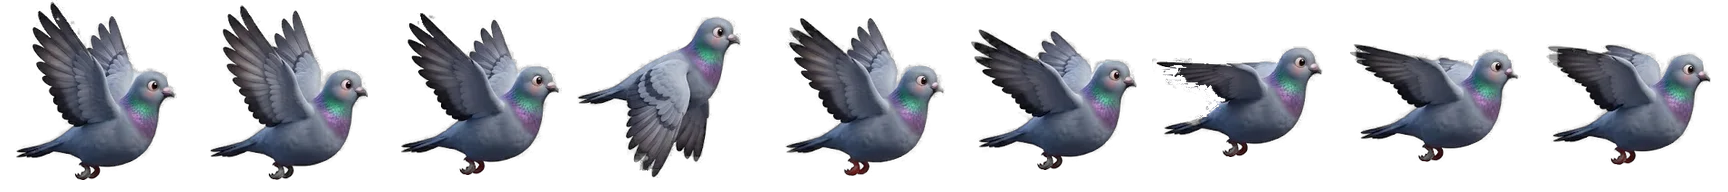
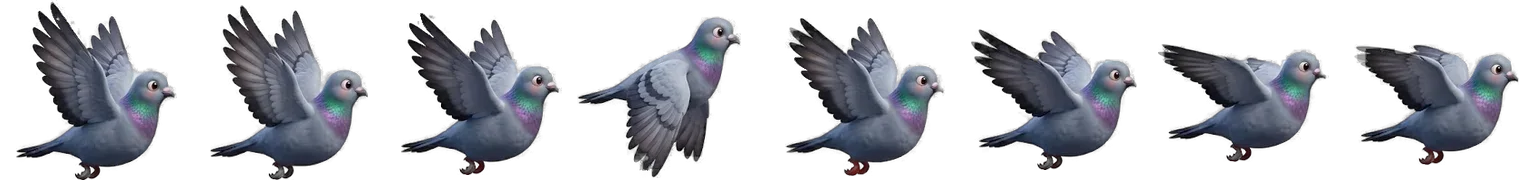
fix(art): выброшены бракованные кадры полёта (sizar/ryaboy/svadebny), fly v=2
Артефакты генерации (белые рваные перья/шип/каша на крыле) — по 1 кадру на
породу, проверено контактным листом. В fly-slice.py дроп-лист на будущие
пересборки. catdrag.js v=4.

diff --git a/public/game.html b/public/game.html
@@ -18,7 +18,7 @@
   <link rel="preload" as="script" href="/js/catclick.js?v=121"/>
   <link rel="preload" as="script" href="/js/catpet.js?v=18"/>
   <link rel="preload" as="script" href="/js/catdove.js?v=8"/>
-  <link rel="preload" as="script" href="/js/catdrag.js?v=3"/>
+  <link rel="preload" as="script" href="/js/catdrag.js?v=4"/>
   <script src="https://telegram.org/js/telegram-web-app.js" defer></script>
   <script src="/js/utils.js" defer></script>
   <script src="/js/tg-bridge.js" defer></script>
@@ -48,7 +48,7 @@ setTimeout(function () {
 <script src="/js/catfeed.js?v=3" defer></script>
 <script src="/js/catpet.js?v=18" defer></script>
 <script src="/js/catdove.js?v=8" defer></script>
-<script src="/js/catdrag.js?v=3" defer></script>
+<script src="/js/catdrag.js?v=4" defer></script>
 <script src="/js/catclick.js?v=121" defer></script>
 </body>
 </html>

diff --git a/public/index.html b/public/index.html
@@ -1306,7 +1306,7 @@
 <script src="/js/catpet.js?v=18" defer></script>
 <script src="/js/catlive.js" defer></script>
 <script src="/js/catdove.js?v=8" defer></script>
-<script src="/js/catdrag.js?v=3" defer></script>
+<script src="/js/catdrag.js?v=4" defer></script>
 <script src="/js/catclick.js?v=121" defer></script>
 <!-- /js/bakery.js удалён — Игры убраны до новой геймификации (см. game.js — wheel/streak/secret) -->
 <script src="/js/chat.js" defer></script>

diff --git a/public/js/catdrag.js b/public/js/catdrag.js
@@ -107,7 +107,7 @@
     rec = { img, ok: null, frames: 0 };
     img.onload = () => { rec.frames = Math.max(1, Math.round(img.width / img.height)); rec.ok = rec.frames >= 2; };
     img.onerror = () => { rec.ok = false; };
-    img.src = `/img/pigeons/fly/${encodeURIComponent(breed)}.webp?v=1`;
+    img.src = `/img/pigeons/fly/${encodeURIComponent(breed)}.webp?v=2`;
     flyCache[breed] = rec;
     return rec;
   }

diff --git a/scripts/pigeon-art/fly-slice.py b/scripts/pigeon-art/fly-slice.py
@@ -83,6 +83,10 @@ for fp in sorted(glob.glob(os.path.join(SRC, "*.png"))):
         print(breed, f"SKIP: живых кадров {len(frames)} (<5)"); continue
 
     frames.sort(key=lambda f: -f["score"])  # крылья сверху -> снизу; клиент играет пинг-понг
+    # ручной выброс бракованных кадров (артефакты генерации), индексы ПОСЛЕ сортировки —
+    # проверены глазами по контактному листу 29.07.2026
+    DROP = {"sizar": [6], "ryaboy": [3], "svadebny": [4]}
+    frames = [f for i, f in enumerate(frames) if i not in DROP.get(breed, [])]
     # общий масштаб на все кадры (относительные размеры поз сохраняются)
     max_dim = max(max(f["img"].width, f["img"].height) for f in frames)
     scale = (CELL * 0.94) / max_dim
